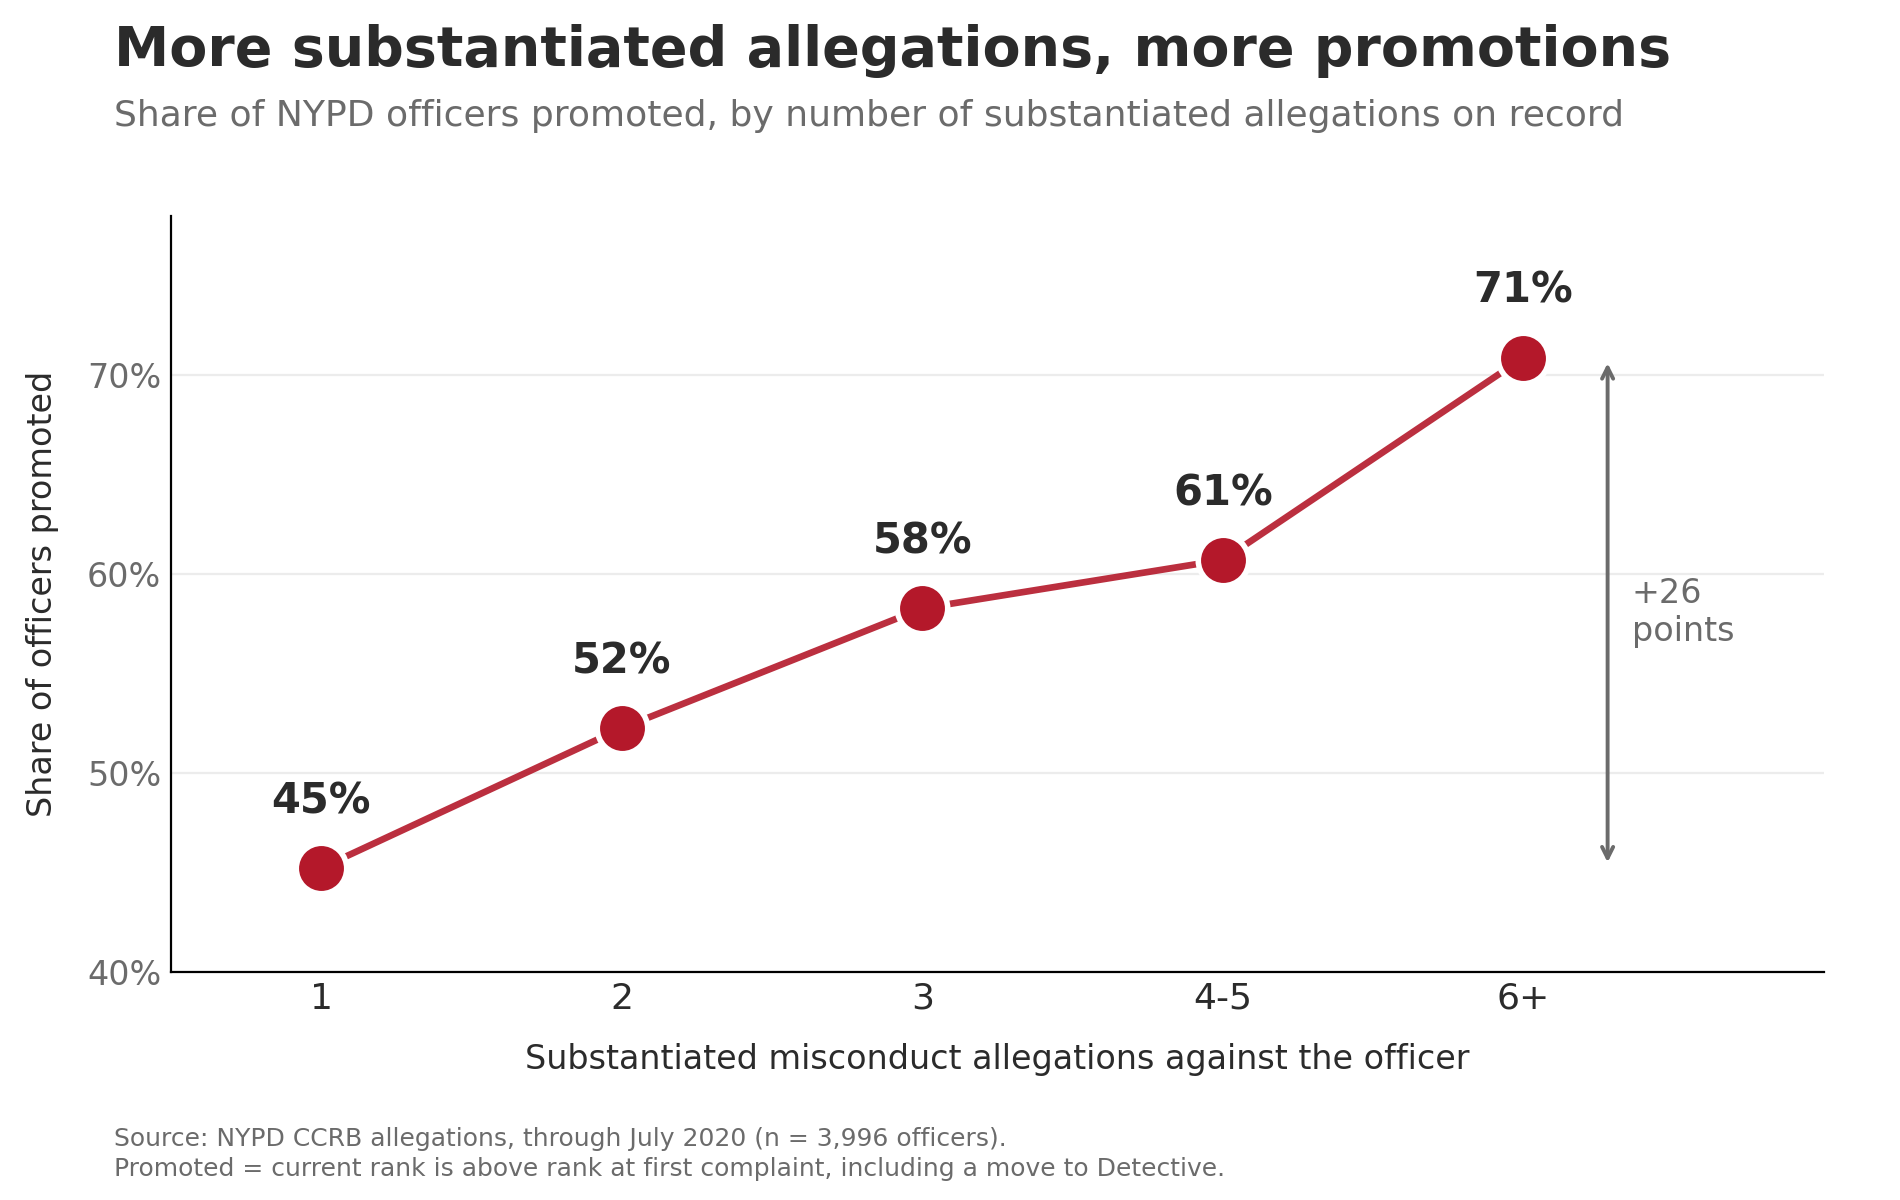
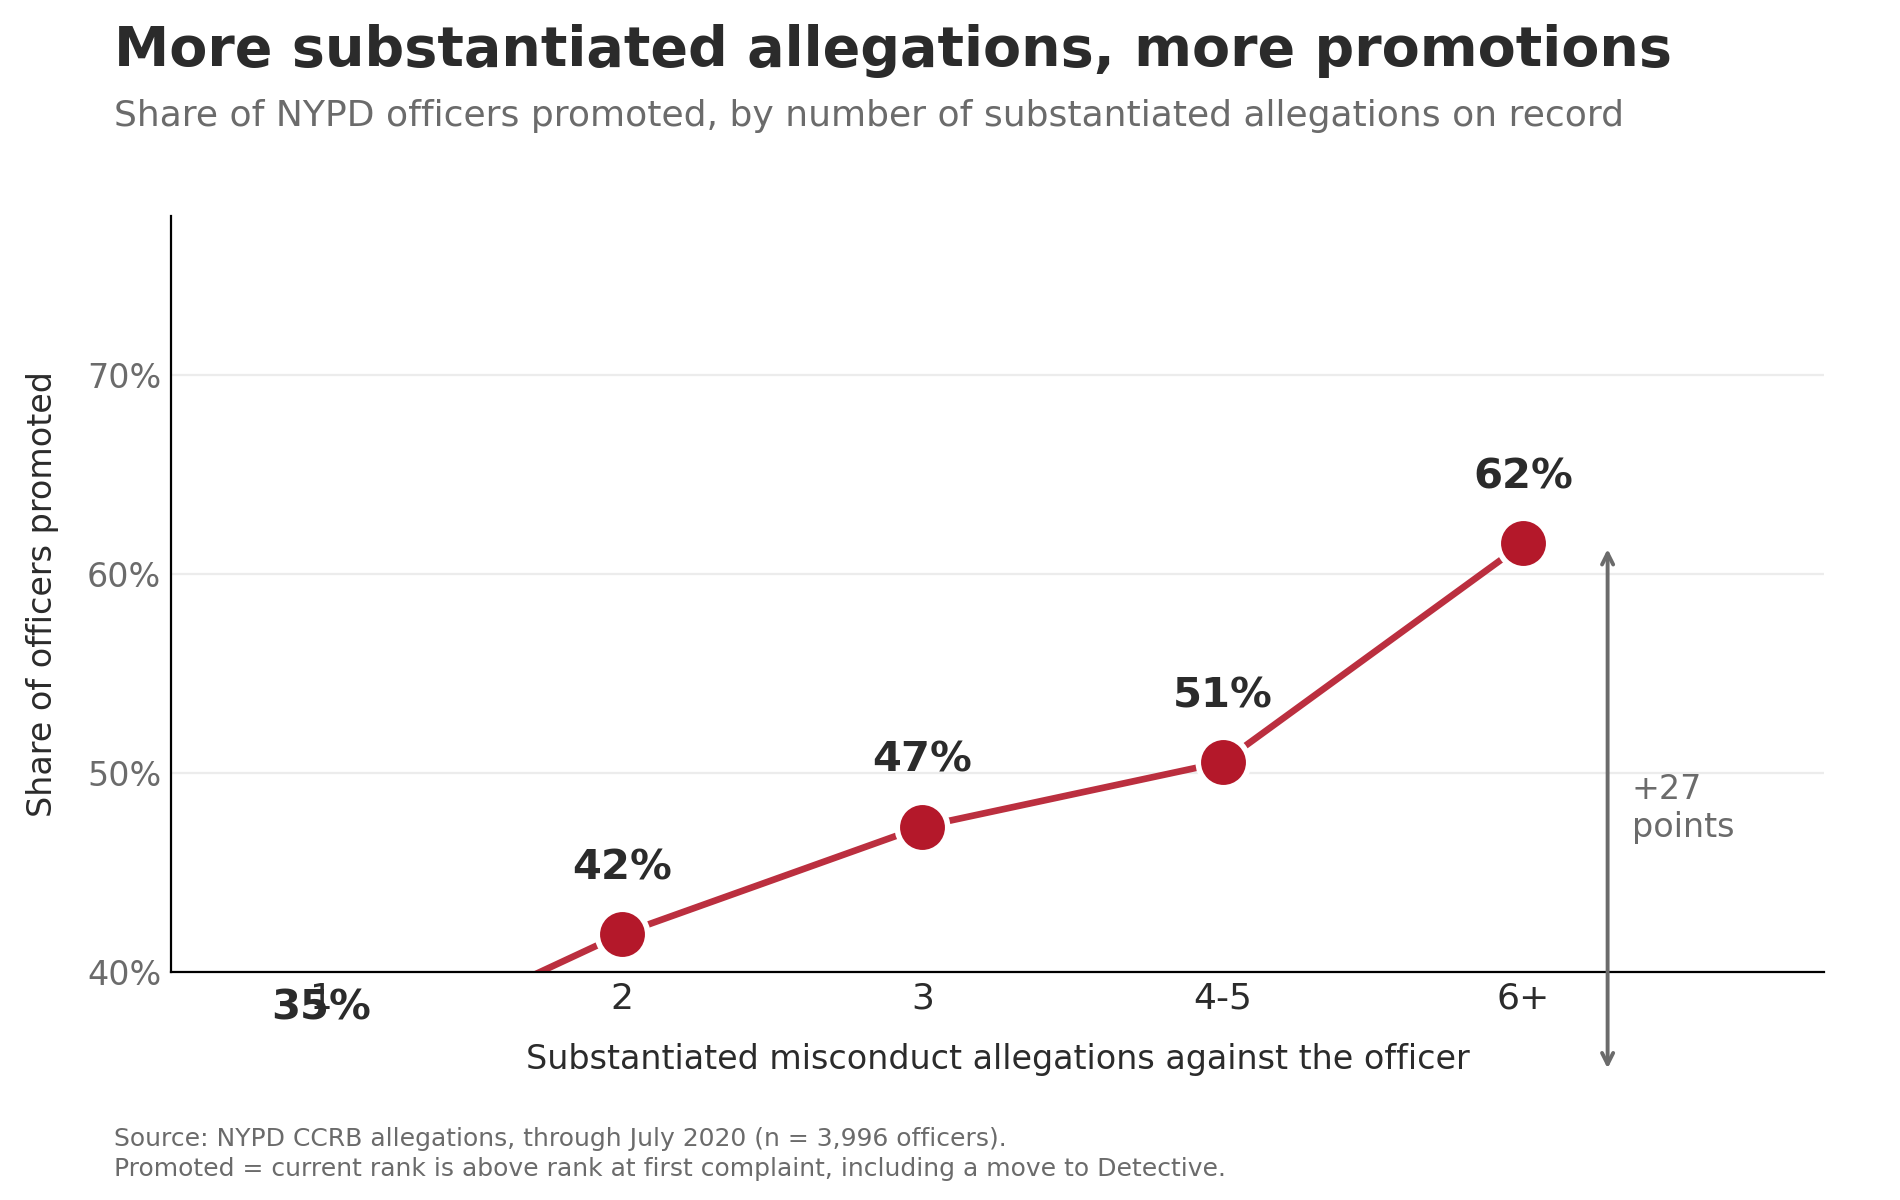
Added Visualization 2 and 4, added HTML template

diff --git a/project2.html b/project2.html
@@ -1,0 +1,199 @@
+<!doctype html>
+<html lang="en">
+    <head>
+        <title>Project 2 Report</title>
+        <style>
+            :root {
+                --color-neutral-95: hsl(220 10% 95%);
+                --color-neutral-90: hsl(220 10% 90%);
+                --color-neutral-80: hsl(220 10% 80%);
+                --color-neutral-70: hsl(220 10% 70%);
+                --color-neutral-60: hsl(220 10% 60%);
+                --color-neutral-50: hsl(220 10% 50%);
+                --color-neutral-40: hsl(220 10% 40%);
+                --color-neutral-30: hsl(220 10% 30%);
+                --color-neutral-20: hsl(220 10% 20%);
+                --color-neutral-10: hsl(220 10% 10%);
+            }
+
+            html {
+                font: 100%/1.5 system-ui;
+                counter-reset: figure;
+                background: var(--color-neutral-95);
+                max-width: min(75vw, 80em);
+                margin: 0 auto;
+            }
+
+            /* Headings */
+
+            h1,
+            h2,
+            h3,
+            h4,
+            h5,
+            h6 {
+                line-height: 1.1;
+                font-weight: 600;
+                text-wrap: balance;
+            }
+
+            h1,
+            h2 {
+                border-bottom: 1px solid var(--color-neutral-80);
+                padding-bottom: 0.2em;
+            }
+
+            h1 {
+                margin-block: 1em 0.5rem;
+                font-size: clamp(2.5em, 150% + 2vh + 2vw, 10vmin);
+                font-weight: 800;
+
+                small {
+                    display: block;
+                    width: fit-content;
+                    padding: 0.2em 0.5em;
+                    margin-inline: auto;
+                    color: white;
+                    background: var(--color-neutral-40);
+                    font-size: 40%;
+                    text-transform: uppercase;
+                    white-space: nowrap;
+                }
+            }
+
+            h2 {
+                font-size: 180%;
+                color: var(--color-neutral-30);
+            }
+
+            h3 {
+                font-size: 130%;
+            }
+
+            /* Lists */
+
+            ul,
+            ol {
+                padding-inline-start: 2em;
+            }
+
+            li {
+                &::marker {
+                    color: var(--color-neutral-40);
+                }
+
+                + li {
+                    margin-top: 0.2em;
+                }
+            }
+
+            /* Sectioning elements */
+
+            header {
+                padding-block: 1em;
+                text-align: center;
+            }
+
+            main {
+                background: white;
+                color: var(--color-neutral-20);
+                border-radius: 1rem;
+                padding: 0.1rem 2rem;
+            }
+
+            /* Figures */
+
+            figure {
+                margin: 1em 0;
+                padding: 0.5rem;
+                margin-inline: -0.5em;
+                border: 1px solid var(--color-neutral-80);
+                box-shadow: 0 0.1em 0.2em var(--color-neutral-95);
+                text-align: center;
+                background: white;
+
+                > figcaption {
+                    font: 500 75% var(--font-sans);
+                    background: var(--color-neutral-95);
+                    padding: 0.5rem;
+                    margin: -0.5rem;
+                    margin-top: 0.5rem;
+                    counter-increment: figure;
+                    text-align: left;
+
+                    &::before {
+                        content: "Figure " counter(figure) ": ";
+                        font-weight: bold;
+                        color: var(--color-neutral-40);
+                    }
+
+                    a:not(:hover, :focus, :active) {
+                        color: inherit;
+                        text-decoration: underline;
+                        text-decoration-color: color-mix(
+                            in lab,
+                            currentColor,
+                            transparent 70%
+                        );
+                    }
+                }
+            }
+        </style>
+    </head>
+
+    <body>
+        <header>
+            <h1>
+                <small>Project 2</small>
+                Persuasive or Deceptive Visualization?
+            </h1>
+
+            <p><strong>Your Name</strong> — <em>Your UCSD Email Address</em></p>
+        </header>
+
+        <main>
+            <h2>Proposition: [STATE PROPOSITION]</h2>
+
+            <section>
+                <h3>FOR the Proposition</h3>
+
+                <figure>
+                    <img src="IMAGE_FILENAME" alt="" />
+                    <figcaption>BRIEF CAPTION HERE.</figcaption>
+                </figure>
+
+                <p>Design Decisions and Rationale:</p>
+
+                <ul>
+                    <li>RATIONALE_1</li>
+                    <li>RATIONALE_2</li>
+                    <li>RATIONALE_3</li>
+                </ul>
+            </section>
+
+            <section>
+                <h3>AGAINST the Proposition</h3>
+
+                <figure>
+                    <img src="IMAGE_FILENAME" alt="" />
+                    <figcaption>BRIEF CAPTION HERE.</figcaption>
+                </figure>
+
+                <p>Design Decisions and Rationale:</p>
+
+                <ul>
+                    <li>RATIONALE_1</li>
+                    <li>RATIONALE_2</li>
+                    <li>RATIONALE_3</li>
+                </ul>
+            </section>
+
+            <section>
+                <h2>Final Reflection</h2>
+
+                <p>[WRITE FINAL REFLECTION PARAGRAPHS HERE.]</p>
+            </section>
+        </main>
+    <script type="module" src="https://static.cloudflareinsights.com/beacon.min.js/vce701823e78c4301a35b7e07294d87301792088814092" integrity="sha512-UKNk8GbxkABxKcXYuLkO16EleLGUkcvJWtpSNmExE0Too3ZaFAxTscNWEc1OdAv5/BikHawapSCaiD2XCmp+Bw==" data-cf-beacon='{"version":"2024.11.0","token":"c822b88e119346678db149ed7b7721c9","r":1,"spa":2}' crossorigin="anonymous"></script>
+</body>
+</html>
